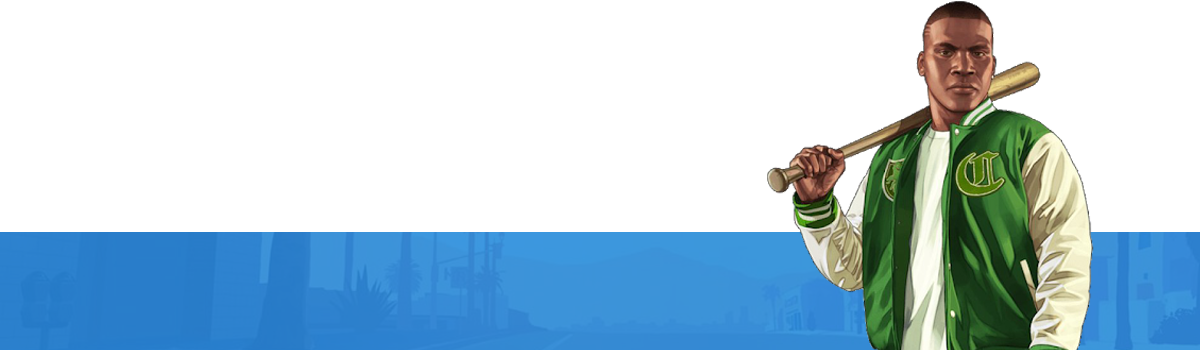
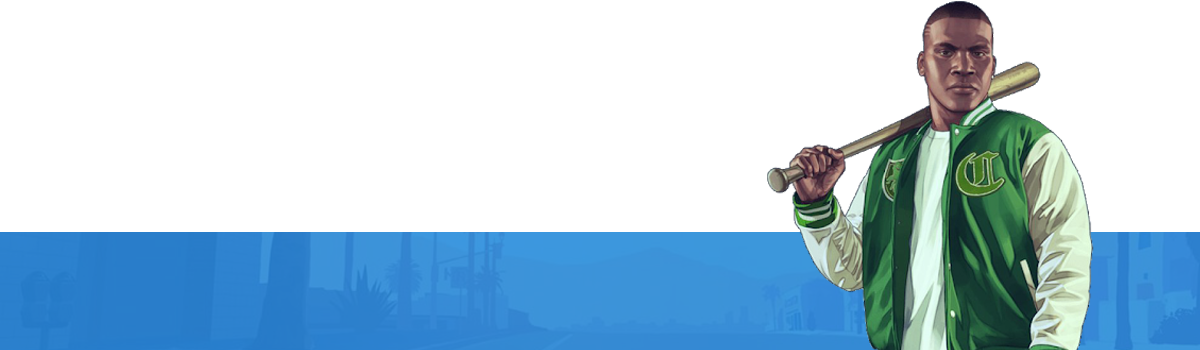
Changed some images & finished "Regelwerk"-Page
Changed and added some header images; finished "Regelwerk"-page (only Lorem ipsum has to be replaced); relinked the "Einreise" button on Main page (now leads to Whitelistsection on "Regelwerk" Page)

Changed region(s): [[0.6475, 0.3143, 0.925, 1.0], [0.7708, 0.0, 0.8325, 0.0571], [0.7708, 0.1143, 0.8325, 0.1714]]

diff --git a/pages/regelwerk/regelwerk.html b/pages/regelwerk/regelwerk.html
@@ -28,10 +28,79 @@
 
 <body>
     <main>
+        <a href="top" name="top"></a>
         <div id="includeNavigation"></div>
-        <div class="test">
-            Test
+        <div class="regelwerkhead"></div>
+        <div class="regelwerkbg">
+            <div class="regelwerkmsg">
+                <span id="rwhead">
+                    Regelwerk
+                </span>
+                <br>
+                Lorem ipsum dolor sit amet consectetur adipisicing elit. At, voluptate!
+                <br><br>
+                <span id="rwtitle">
+                    Lorem ipsum
+                </span>
+                <br>
+                Lorem ipsum dolor sit, amet consectetur adipisicing elit. Unde, voluptatum.
+                <br><br>
+                <span id="rwtitle">
+                    Lorem ipsum
+                </span>
+                <br>
+                Lorem, ipsum dolor sit amet consectetur adipisicing elit. Itaque, recusandae.
+                <br><br>
+                <ul>
+                    <li>
+                        <span id="rwlititle">
+                            ➤ Lorem ipsum
+                        </span>
+                        <br>
+                        Lorem ipsum dolor sit amet.
+                    </li>
+                    <li>
+                        <span id="rwlititle">
+                            ➤ Lorem ipsum
+                        </span>
+                        <br>
+                        Lorem ipsum dolor sit amet.
+                    </li>
+                    <li> <span id="rwlititle">
+                            ➤ Lorem ipsum
+                        </span>
+                        <br>
+                        Lorem ipsum dolor sit amet.</li>
+                </ul>
+            </div>
         </div>
+        <div class="einreisehead">
+            <a href="einreise" name="einreise"></a>
+            <div class="einreisemsg">
+                <span id="einreisetitle">
+                    Deine Einreise auf DestinyV
+                </span>
+                <br>
+                Lorem ipsum dolor sit amet consectetur adipisicing elit. Aliquam, animi suscipit molestias eos accusamus
+                praesentium labore ratione? Commodi voluptatem nihil repellat provident nostrum. Cumque facilis, nobis
+                tempora quibusdam quisquam magni soluta doloribus voluptate, odio in adipisci corporis reprehenderit
+                dicta aperiam?
+                <br><br>
+                <a href="#" class="button3" title="Whitelist">Zur Whitelist</a>
+            </div>
+        </div>
+        <div class="questionsbg">
+            <div class="questionsmsg">
+                <span id="questionstitle">
+                    Noch Fragen?
+                </span>
+                <br>
+                Sind noch Fragen bei dir offen geblieben? Dann wende dich gerne an unseren Support auf:
+                <br><br>
+                <a href="https://discord.gg/URkNCPJeWe" class="button" title="Discord">Discord</a> <a href="ts3server://ts3.destinyv.net" class="button" title="TeamSpeak">TeamSpeak</a>
+            </div>
+        </div>
+        <div class="einreisebot"></div>
         <div id="includeFooter"></div>
     </main>
 </body>

diff --git a/pages/regelwerk/regelwerk.css b/pages/regelwerk/regelwerk.css
@@ -3,11 +3,97 @@
     padding: 0;
 }
 
-.test {
+.regelwerkhead {
     width: 1200px;
     margin: auto;
     height: 500px;
-    background-image: url('../common/img/impressum.png');
+    background-image: url('../common/img/regelwerkhead.png');
+    background-color: #010407;
+    background-repeat: no-repeat;
+    background-size: contain;
+    z-index: 1;
+    float: left;
+}
+
+.regelwerkmsg,
+.questionsmsg {
+    font-family: Arial, Helvetica, sans-serif;
+    font-size: 16;
+    color: #fff;
+    padding: 50px;
+}
+
+span#rwhead,
+span#rwtitle,
+span#rwlititle,
+span#einreisetitle,
+span#questionstitle {
+    font-family: 'Roboto Condensed Bold';
+}
+
+span#rwhead,
+span#einreisetitle,
+span#questionstitle {
+    font-size: 50;
+}
+
+span#rwtitle {
+    font-size: 30;
+}
+
+span#rwtitle,
+span#rwlititle {
+    color: #228AE3;
+}
+
+.regelwerkmsg ul {
+    list-style-position: inside;
+    list-style-type: none;
+}
+
+.regelwerkmsg li {
+    margin: 0 0 15px 0;
+}
+
+.einreisehead {
+    width: 1200px;
+    margin: auto;
+    height: 350px;
+    background-image: url('../common/img/Einreise.png');
+    background-color: #010407;
+    background-repeat: no-repeat;
+    background-size: contain;
+    z-index: 1;
+    float: left;
+}
+
+.regelwerkbg,
+.questionsbg {
+    z-index: 1;
+    float: left;
+    width: 1200px;
+    background-color: #010407;
+    background-size: contain;
+    margin: auto;
+}
+
+.einreisemsg {
+    position: relative;
+    left: 350px;
+    top: 40px;
+    width: 700px;
+    font-family: Arial, Helvetica, sans-serif;
+    font-size: 16;
+    color: #fff;
+    padding: 50px;
+}
+
+.einreisebot {
+    width: 1200px;
+    margin: auto;
+    height: 350px;
+    background-image: url('../common/img/regelwerkbot.png');
+    background-color: #010407;
     background-repeat: no-repeat;
     background-size: contain;
     z-index: 1;

diff --git a/pages/common/style/style.css b/pages/common/style/style.css
@@ -82,6 +82,29 @@ a.button2:hover {
   background-color: #104b7c;
 }
 
+a.button3 {
+  display: inline-block;
+  padding: 0.35em 1.2em;
+  margin: 0 0.3em 0.3em 0;
+  border-radius: 5px;
+  box-sizing: border-box;
+  text-decoration: none;
+  font-family: 'Roboto Condensed Bold';
+  font-weight: 300;
+  color: #228AE3;
+  background-color:#fff;
+  text-align: center;
+  transition: all 0.75s;
+  width: 200px;
+  font-size: 18;
+  text-transform: uppercase;
+}
+
+a.button3:hover {
+  color: #fff;
+  background-color: #104b7c;
+}
+
 @media all and (max-width: 30em) {
   a.button {
       display: block;

diff --git a/pages/main/main.html b/pages/main/main.html
@@ -39,7 +39,7 @@
                 hast!
                 Welchen Weg wirst du in der Stadt einschlagen? Es liegt allein in deiner Hand!
                 <br><br>
-                <a href="../regelwerk/regelwerk.html" class="button">Regeln</a> <a href="#" class="button">Einreisen</a>
+                <a href="../regelwerk/regelwerk.html" class="button">Regeln</a> <a href="../regelwerk/regelwerk.html#einreise" class="button">Einreisen</a>
             </div>
         </div>
         <div class="whyd5">
